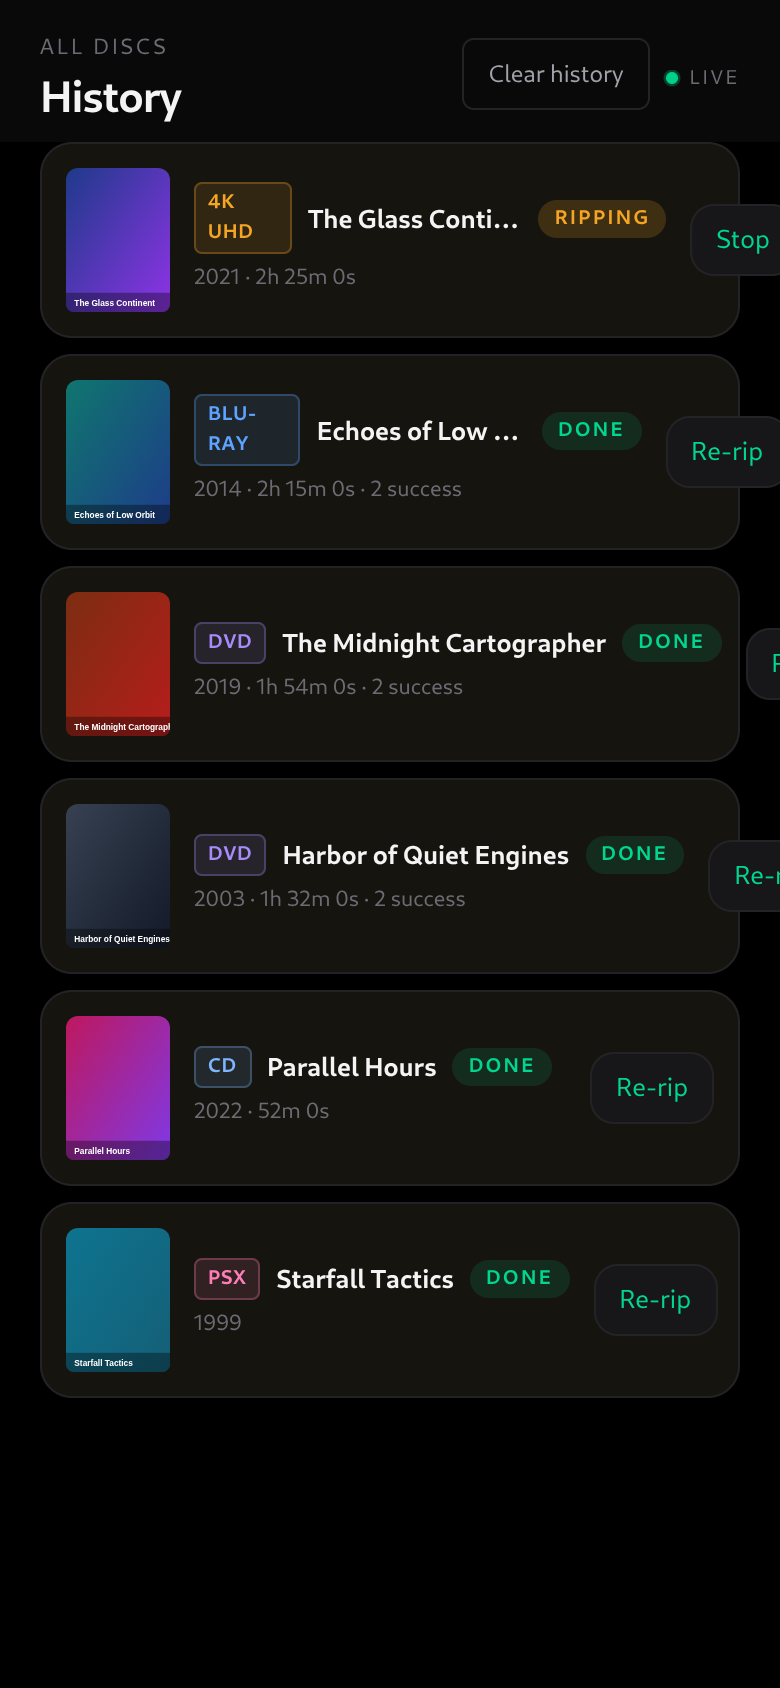
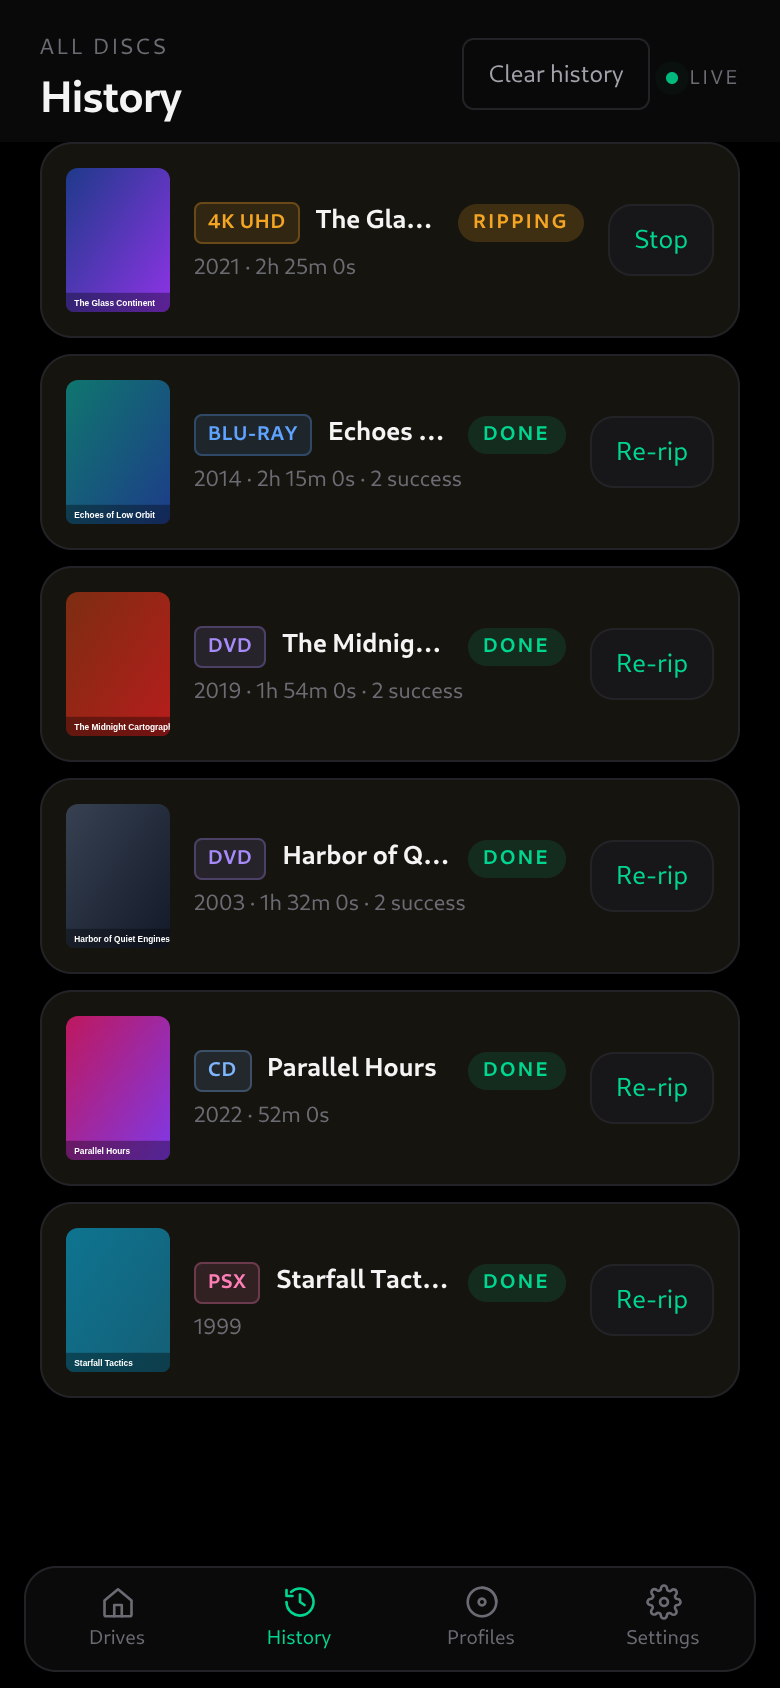
fix(webui): keep history-row action button on-screen at narrow widths
The flexbox truncation chain was broken — the body button and title row
lacked min-w-0 and the type badge / lifecycle pill lacked flex-shrink-0 — so
long titles failed to truncate and the row overflowed at ~390px, pushing the
Re-rip/Stop button past the viewport edge. Restore the min-w-0 chain, pin the
badge/pill widths, and refresh the mobile history screenshot.

diff --git a/webui/src/lib/components/DiscHistoryRow.svelte b/webui/src/lib/components/DiscHistoryRow.svelte
@@ -79,19 +79,26 @@
     <button
       data-testid="disc-history-body"
       type="button"
-      class="flex flex-1 items-center gap-3 text-left"
+      class="flex min-w-0 flex-1 items-center gap-3 text-left"
       on:click={onBody}
     >
       <div class="h-[72px] w-[52px] flex-shrink-0 overflow-hidden rounded">
         <DiscArt disc={row.disc} size={52} ratio="portrait" />
       </div>
       <div class="min-w-0 flex-1">
-        <div class="mb-1 flex items-center gap-2">
-          <DiscTypeBadge type={row.disc.type} />
-          <span class="truncate text-[13px] font-semibold text-text">
+        <div class="mb-1 flex min-w-0 items-center gap-2">
+          <span class="flex-shrink-0">
+            <DiscTypeBadge type={row.disc.type} />
+          </span>
+          <span
+            data-testid="disc-history-title"
+            class="min-w-0 flex-1 truncate text-[13px] font-semibold text-text"
+          >
             {row.disc.title || row.disc.id.slice(0, 8)}
           </span>
-          <LifecyclePill {state} />
+          <span class="flex-shrink-0">
+            <LifecyclePill {state} />
+          </span>
         </div>
         <div class="truncate text-[11px] text-text-3">{metaLine}</div>
       </div>

diff --git a/webui/src/lib/components/DiscHistoryRow.test.ts b/webui/src/lib/components/DiscHistoryRow.test.ts
@@ -94,4 +94,15 @@ describe('DiscHistoryRow', () => {
     await fireEvent.click(getByTestId('disc-history-action'));
     expect(cancelSpy).toHaveBeenCalledWith('t1');
   });
+
+  it('keeps the truncation chain so the action button is never pushed off-screen', () => {
+    const { getByTestId } = render(DiscHistoryRow, { props: { row: baseRow('done') } });
+    // Body must be allowed to shrink within the outer flex row.
+    expect(getByTestId('disc-history-body')).toHaveClass('min-w-0');
+    // Title must be the flexible, truncating element.
+    const title = getByTestId('disc-history-title');
+    expect(title).toHaveClass('min-w-0');
+    expect(title).toHaveClass('flex-1');
+    expect(title).toHaveClass('truncate');
+  });
 });

diff --git a/CHANGELOG.md b/CHANGELOG.md
@@ -18,6 +18,10 @@ The format is based on [Keep a Changelog](https://keepachangelog.com/en/1.1.0/),
 - Obsolete planning docs (`ROADMAP.md`, `OPEN_QUESTIONS.md`, `ARCHITECTURE.md`)
   and the unused `config/` → `/etc/discecho` mount.
 
+### Fixed
+- History rows no longer clip their Re-rip / Stop action button off the right
+  edge on narrow phone screens; long titles now truncate instead.
+
 ## [0.30.2] - 2026-05-20
 
 ### Fixed
